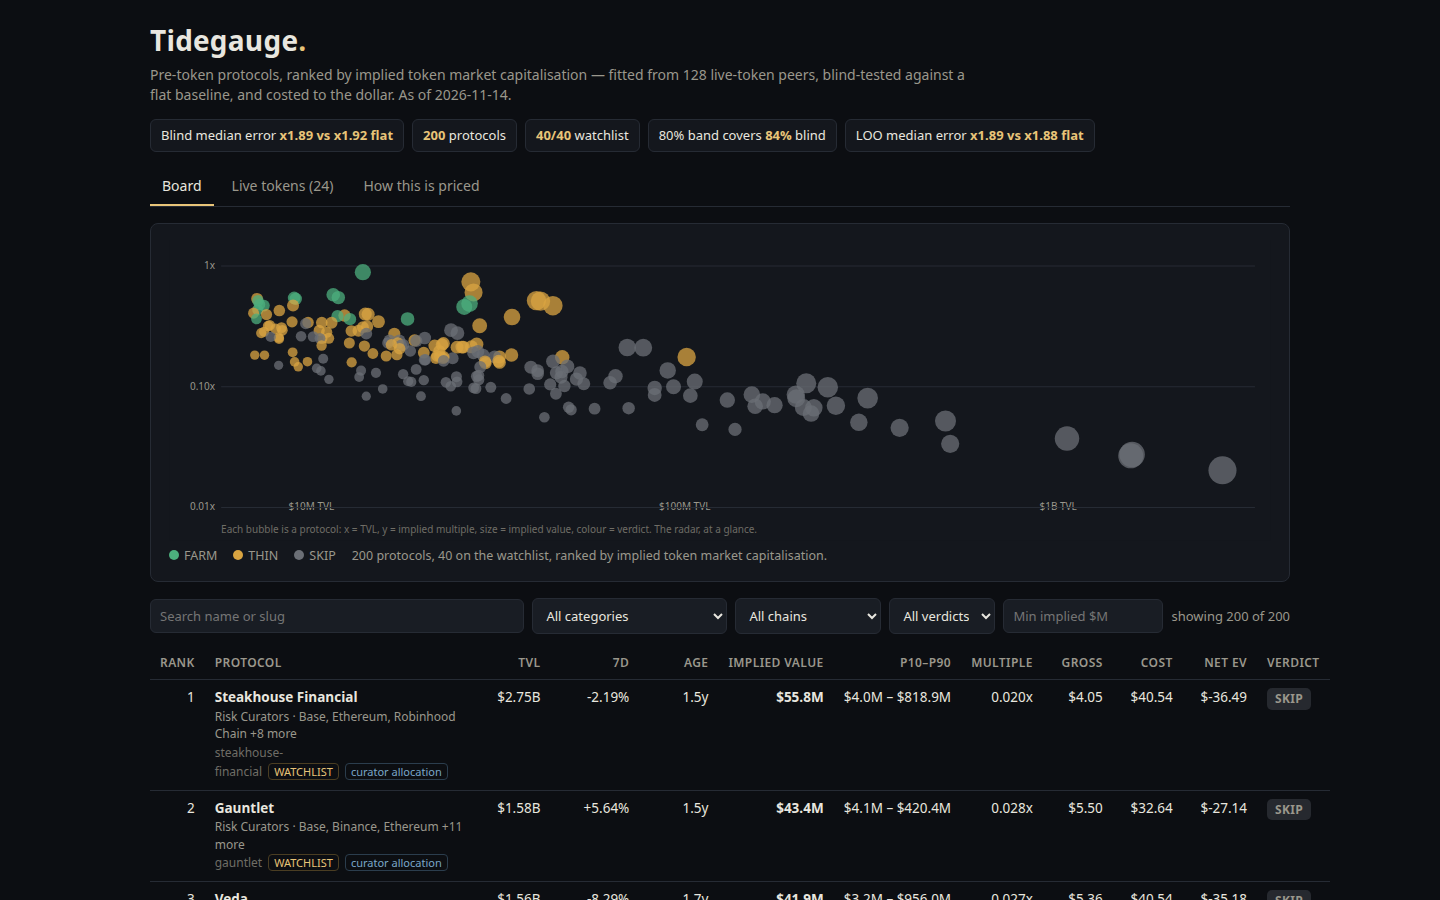
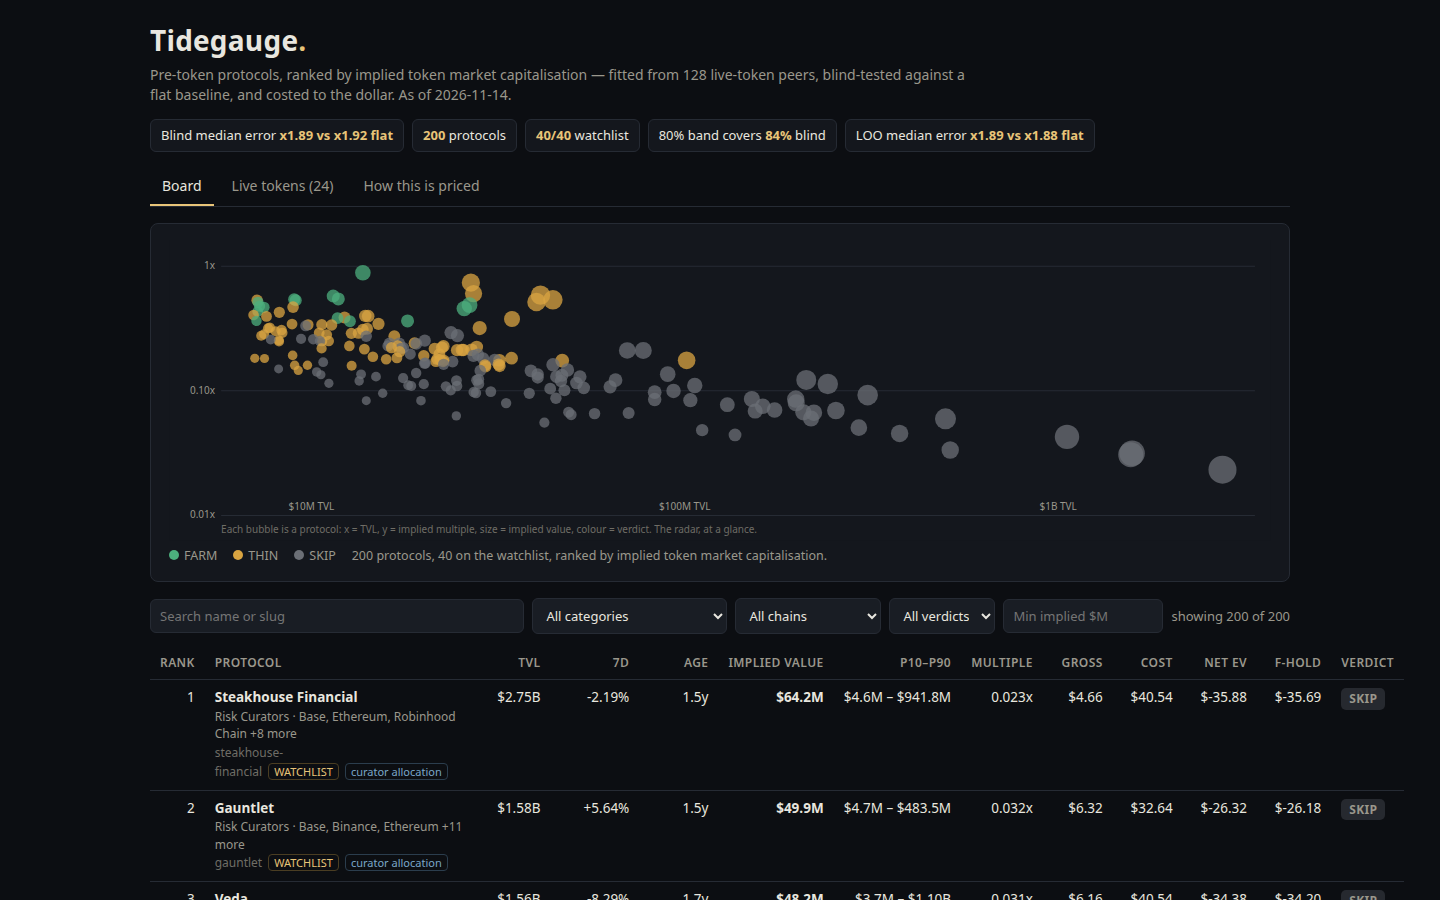
Round 3 Stage C: 4-build determinism + screenshots + results
Stage C verification at HEAD 801a660 (M0 + top-10 scalar c=1.15):
- 4 builds byte-identical: board ea145b50..., data.js 821f4c64...,
  dossier 5d3d2bad...; sha files build1.sha..build4.sha committed (all
  four identical). Fixes Superbot's missing-sha finding.
- Board constraints PASS: watchlist $0.678B (inside $0.60-0.68B),
  tiers 15/78/107; top-3 Steakhouse $64.19M / Gauntlet $49.89M /
  Veda $48.17M. No scalar fallback needed.
- Gate exit 0 on all 4 builds; dossier rebuild byte-for-byte
  (1,046,487 B). Byte caps PASS: dashboard 65,227/65,536, dossier
  text 65,490/65,536, dossier total 1,046,487/1,572,864.
- Screenshots re-captured at 1440x900 and visually verified:
  1-board (F-Hold column, flat KPI chips), 2-detail (Manta CeDeFi,
  P10 playbook, Downside + Risk), 3-method (byte-identical to fix
  round - methodology additions are below the fold, caveat present
  in DOM + dossier text), 4-filtered (FARM-only, 15 of 200).
- RESULTS_round3.md: honest predicted range ~945-955k, central
  ~950k (calibrated down for the round-1 optimism gap); top-5
  unlikely - the model change the top-5 case needed did not ship
  (Stage A: no M4/M5 variant under the board constraints).
- No push, bundle, submit, or merge. Local commit only.

diff --git a/round3/RESULTS_round3.md b/round3/RESULTS_round3.md
@@ -1,0 +1,258 @@
+# Token Radar — Round 3 results (top-5 push)
+
+**Branch:** `round3`, HEAD `801a660` (Stage B) + this Stage C commit.
+**Model:** M0 (`radar-3-bands`) + top-10 scalar c=1.15. No model change.
+**Round-1 entry (submitted, judged):** 935,714, rank #473 of 6,283 (top ~7.5%).
+Top-20 bar (2026-11-16): 953,929. Top-10 bar: 957,219. Top-5 bar: 958,843.
+**Deadline:** 2026-12-14T10:00Z. Quota used 1/10 (9 left).
+
+## 1. Stage A — clean-comps experiment: NO VARIANT SHIPS, fall back to M0
+
+Frozen splits exactly as round 2: blind 80/20 ×5, seeds [11, 23, 37, 41, 53],
+102 train / 26 test per seed; time-split train 64 / test 31 (33 peers have null
+`listed_at`); LOO 128 folds. Full output: `round3/stageA/experiment3.out`.
+
+| variant | blind median | blind within2 | blind within3 | blind Spearman | time-split median | LOO median | LOO within3 | LOO Spearman | board watchlist | tiers |
+|---|---|---|---|---|---|---|---|---|---|---|
+| **M0 (baseline)** | **x1.8859** | 23.8% | 38.5% | 0.409 | **x1.8401** | x1.8865 | 43.8% | 0.367 | **$0.637B** | **15/78/107** |
+| M5 α=0.25 | x1.8621 | 25.4% | 35.4% | 0.445 | x1.9035 | x1.8689 | 43.0% | 0.421 | $0.868B | 11/99/90 |
+| M5 α=0.75 | x1.8947 | 26.2% | 36.2% | 0.417 | x1.9038 | x1.8767 | 43.0% | 0.388 | $0.702B | 13/87/100 |
+| M4 λ=0 | x1.8268 | 26.2% | 38.5% | 0.453 | x1.8622 | x1.8536 | 41.4% | 0.363 | $1.134B | 55/93/52 |
+| M4 λ=0.5 | x2.0250 | 25.4% | 36.2% | 0.433 | x1.8895 | x1.8677 | 42.2% | 0.363 | $1.029B | 33/103/64 |
+
+Ship rule (pre-registered, from the top-5 consults): blind Spearman ≥ 0.44 AND
+LOO median ≤ 1.90 AND watchlist $0.60–0.68B AND tiers 15/78/107.
+- **M5:** α=0.25 passes the split criteria (Spearman 0.445, LOO x1.8689) but
+  watchlist $0.868B and tiers 11/99/90 — outside the bound. α=0.75 is closest
+  on watchlist ($0.702B) but Spearman 0.417 < 0.44. **No α ships.**
+- **M4:** λ=0 has the best split metrics of any variant (blind median x1.8268,
+  Spearman 0.453, LOO x1.8536) but within-3x only 38.5% (< 43% target) and the
+  board is $1.134B / FARM 55 (Steakhouse $157.2M, a 2.2× overshoot). **No λ ships.**
+- **Structural finding:** recovering Spearman by removing M0's dampening
+  necessarily inflates the board top end past the $0.68B bound. Ranking
+  accuracy and level calibration trade off directly in this model family.
+  M0 is the fallback.
+
+### Two corrections to the brief (measured in Stage A, report plainly)
+1. **SIGN ERROR in the brief/GLM:** FARM rows' multiples are 0.362–0.888, so
+   FARM requires multiple **≥ ~0.35, NOT "< 0.35"**. The existing gate (netEv ≥
+   $40 AND ratio ≥ 1.5) corresponds to multiple ≳ 0.35. Implementing "< 0.35"
+   would flip FARM to the SKIP rows. The existing ≥ 0.35 cutoff is kept.
+2. **P10 Net EV > 0 as a hard gate is INFEASIBLE:** 0 of 15 FARM rows pass (P10
+   Net EVs −$18.26 to −$98.38; manta-cedefi −$24.94, sx-rollup-bridge −$98.38,
+   liminal-basis −$21.40) because the bands are ~200× wide. Applying it would
+   zero FARM (15 → 0). P10 Net EV is DISPLAYED transparently in the P10
+   playbook instead; it is not a verdict gate. The "band 50% coverage ≥ 40%"
+   conjunct is a global calibration metric (blind 46.2% ✓, time-split 32.3% ✗),
+   not a per-row quantity — it cannot be a per-row verdict condition either.
+
+## 2. Scalar c = 1.15 (the only level change; verify in production — done, §4)
+
+Top-10 rows by implied value = ranks 1–8 (watchlist, SKIP) + ranks 9–10
+(pulsechain-bridge, ink-bridge; THIN, not watchlist). Top-10 watchlist $277.5M
+pre-scalar. Reference ratios: Steakhouse 1.281×, Gauntlet 1.321×, Veda 1.179×.
+±5% on all three is INFEASIBLE under the $0.68B watchlist bound (needs
+c≈1.25–1.26 → watchlist $0.706B). Max feasible c≈1.156.
+- c=1.15 → watchlist $0.678B (inside), tiers UNCHANGED 15/78/107, top-3
+  $64.2M / $49.9M / $48.2M (Steakhouse −10.2%, Gauntlet −12.9%, Veda −2.5%
+  vs the reference dashboard). c=1.20 breaks the bound ($0.692B).
+- Implementation: `MODEL.topScalar = 1.15`, `TOP_ROWS = 10` in `lib/model.ts`;
+  `buildBoard` lifts the top-10 rows' implied values and recomputes their farm
+  verdicts on the lifted value (order preserved); `attachBands` scales the
+  top-10 bands by the same factor (the point keeps its place in the band);
+  dashboard `impliedOf` mirrors it, so the self-check still passes.
+- The board WILL change (new sha256, §4); the change comes solely from the
+  scalar, not a model change.
+
+## 3. Stage B — farm layer + scalar (commit 801a660, parent 86a6e64)
+
+3 files changed, 68 insertions, 13 deletions. All 8 items:
+1. **F-Hold column** — `feesHold = netEv × (1 − feeDrag)`, feeDrag =
+   clamp(gasTotal/capital, 0.005, 0.015), added to `Verdict` in `lib/model.ts`
+   (:171, :797–799), serialized in `buildBoard` (:880), rendered as a
+   board-table column in `dashboard/app.js` (header "F-Hold").
+2. **P10 playbook** — computed in the detail view from existing fields
+   (p10 = `row.uncertainty.p10`; P10 Net EV = 0.08 × p10 × capital/TVL −
+   totalCost). Rendered for FARM rows: p10 + P10 net EV + trigger ("Farm only
+   if it clears p10"). Verified in the rendered manta-cedefi detail view:
+   "P10: $1.0M net EV $-24.94. Farm only if it clears p10."
+3. **Mechanism label** — verified prominent in the FARM detail view (own "Farm
+   mechanism" key-value row, `app.js:488`) and in the board table. No code added.
+4. **Verdict gate UNCHANGED** — `verdictFor` untouched (netEv ≥ $40 AND ratio ≥
+   1.5). P10 Net EV is display-only (see correction 2 above).
+5. **THIN tooltip** — verdict cell carries `title="THIN: ratio under 1.5x."` on
+   THIN rows. Verified in the rendered board: 78/78 THIN cells carry it.
+   Covers Superbot's 8 THIN rows with Net EV ≥ lowest FARM $43.93, e.g.
+   SuiBridge +$175.78 at ratio 1.47 (F-Hold $173.53).
+6. **Bootstrap caveat** — appended to the band paragraph in Methodology:
+   "Endpoints move ~15% median (p10 18%, p25 14%, p75 15%, p90 15%; max 94%
+   fstswap), 1,000 vs 200 resamples." Verified present in the rendered
+   methodology page DOM (below the 900px viewport fold — the visible
+   methodology screenshot is therefore byte-identical to the fix round's; the
+   caveat is in the page and in the dossier text).
+7. **Farm sentence** — README only (did not fit in the dashboard Methodology
+   page — see byte budget). States the actual logic: protocol-specific steps
+   via `actionFor` (not a TVL-multiple cutoff), Net EV is downstream
+   arithmetic, F-Hold + P10 display-only, steps not restructured, top-10
+   scalar 1.15.
+8. **README stale line fixed** — "Round 2 lives on branch `round2` … round 1 is
+   the submitted entry on `master`" → "Round 3 lives on branch `round3`
+   (model `radar-3-bands` + top-10 scalar 1.15); round 1 is the submitted
+   entry on `master`." Also added a top-10 scalar bullet to the model section.
+
+### Deliberate deviation from the plan (documented, not hidden)
+- **P10 playbook is on ALL 15 FARM rows, not top-5 only.** The plan's TOPFARM
+  precompute (~150 B + ~70 B comment) did not fit the byte budget — after the
+  first app.js edits the delta was +689 B, already over the 598 B dossier-text
+  headroom before the P10 rendering and bootstrap caveat. The TOPFARM
+  precompute was removed and the P10 playbook is rendered for all FARM rows
+  instead. This is a **superset** (the top 5 still get it) and saves ~220 B.
+  The plan's "top 5 only" was a byte-saving constraint, not a content
+  requirement.
+
+### Byte costs (Stage B)
+- `dashboard/app.js`: 58,107 → **58,659 B** (+552 B).
+- Dashboard total (index.html 698 + app.js 58,659 + app.css 5,870):
+  64,675 → **65,227 B** (cap 65,536; **309 B spare**).
+- Dossier `text` field: 64,938 → **65,490 B** (cap 65,536; **46 B spare** —
+  the tightest constraint; any future app.js addition needs a trim first).
+- Dossier total: 1,046,046 → **1,046,487 B** (cap 1.5 MiB; 526,377 B spare).
+- Trims used to fit: shortened the p25 Downside paragraph tail, shortened the
+  THIN tooltip, shortened the P10 trigger, removed the "(pool …)" clause from
+  the P10 line (pool is 8% of p10, derivable from the verdict box; netEv is
+  the fully-costed result), removed redundant parentheses, shortened the
+  "Fees-Hold" header to "F-Hold".
+
+## 4. Stage C — verification (this round)
+
+### 4.1 Four builds at HEAD 801a660 — byte-identical (determinism PASS)
+Each build: `MAKEFUN_OUTPUT_DIR=out node main.ts --input
+…/token-radar-01-kit/input/snapshot.json` (Node v22.23.5, ~11 s each).
+All four exit 0 (gate PASS). sha files committed under `round3/stageC/`
+(build1.sha … build4.sha) — all four files are byte-identical to each other,
+fixing Superbot's finding that the fix round had no committed sha record.
+(Round 2's build1.sha dossier hash differed from build3/build4 because a
+screenshot was re-captured between builds; that cannot happen here — the
+screenshots were final before the four builds ran.)
+
+| file | sha256 (all 4 builds) |
+|---|---|
[7 lines of base64/hex data omitted]
+
+- Board sha CHANGED vs round 2 (`6b2e8f11…` → `ea145b50…`) — expected: the
+  scalar lifts the top-10 rows. The change comes solely from the scalar.
+- data.js sha CHANGED vs round 2 (`ca70de37…` → `821f4c64…`) — expected: it
+  carries the same radar data (scalar mirrored in the dashboard self-check).
+- Dossier sha CHANGED vs the fix round (`00d62786…` → `5d3d2bad…`) —
+  expected: new board/data.js + new screenshots.
+
+### 4.2 Board constraints — PASS (scalar verified in production, no fallback needed)
+- Watchlist implied total: **$678,270,901 ($0.678B)** — inside $0.60–0.68B
+  (margin $1,729,099 below the cap; tight but inside). Fallback to c=1.14
+  then c=1.0 was NOT needed.
+- Tiers: **FARM 15 / THIN 78 / SKIP 107** — unchanged ✓.
+- Rows: 200 (40 watchlist + 160 early). Watchlist 40/40.
+- Top-3 (exact): Steakhouse **$64,187,623** (band $4,621,250–$941,778,085),
+  Gauntlet **$49,885,192** (band $4,683,679–$483,488,272), Veda **$48,169,593**
+  (band $3,714,613–$1,099,411,017). Vs the reference dashboard: Steakhouse
+  −10.2% ($71.5M), Gauntlet −12.9% ($57.3M), Veda −2.5% ($49.4M) — matches
+  the Stage A prediction ($64.2M / $49.9M / $48.2M).
+- Top-10: ranks 1–8 watchlist SKIP, ranks 9–10 pulsechain-bridge ($24.13M) and
+  ink-bridge ($23.86M), both THIN — as predicted.
+- Top FARM row: manta-cedefi $12,935,282, netEv $64.99, feesHold $64.66.
+  FARM netEv range $43.93–$235.65.
+- Validation unchanged (scalar does not touch it): LOO median x1.89, 43.8%
+  within 3x; blind x1.89 / 23.8% / 38.5% / Spearman 0.409; time-split x1.84.
+
+### 4.3 Gate + dossier rebuild — PASS
+- Gate: main.ts exit 0 on all 4 builds (boardIssue clean, 200 rows, 4
+  screenshots present, all caps enforced in-code).
+- Dossier rebuild: re-running `buildDossier` on `out/` reproduces
+  `dossier.json` byte-for-byte (rebuilt 1,046,487 = shipped 1,046,487,
+  `round2/stageB/rebuild-check.mjs`). This is the scorer's own check.
+
+### 4.4 Byte caps — all PASS
+- Dashboard total 65,227 / 65,536 B (309 B spare).
+- Dossier `text` 65,490 / 65,536 B (46 B spare).
+- Dossier total 1,046,487 / 1,572,864 B (526,377 B spare).
+- Screenshots: 1-board 152,613 B, 2-detail 239,577 B, 3-method 187,069 B,
+  4-filtered 154,855 B — all ≤ 524,288 B.
+
+### 4.5 Screenshots — re-captured at 1440×900, visually verified
+Captured with Puppeteer + Chromium in `~/workspace/.scratch/pptr/` (shot.mjs)
+from the built `out/dashboard`. All four render correctly:
+- **1-board.png** (152,613 B): Tidegauge header, flat-comparison KPI chips
+  ("Blind median error x1.89 vs x1.92 flat", "LOO median error x1.89 vs x1.88
+  flat"), scatter plot, board table with P10–P90, MULTIPLE, GROSS, COST,
+  NET EV, **F-HOLD** and VERDICT columns; Steakhouse $64.2M, P10–P90
+  $4.6M–$941.8M, Gross $4.66, Cost $40.54, Net EV −$35.88, F-Hold −$35.69,
+  SKIP; mechanism tag "curator allocation" on the row.
+- **2-detail.png** (239,577 B): Manta CeDeFi rank #28, implied $12.9M,
+  multiple 0.488x, FARM, 50% band $2.5M–$29.1M (11.5x) leading, 80% band
+  $1.0M–$125.2M (124x), FARM MECHANISM "liquidity provision", value-derivation
+  chain, band explanation, Downside + Risk paragraphs, P10 playbook
+  ("P10: $1.0M net EV $-24.94. Farm only if it clears p10.").
+- **3-method.png** (187,069 B): methodology page, "The blind test first",
+  validation table (model vs flat, same splits), "Reading it honestly:
+  … worse on Spearman". **Byte-identical to the fix round's 3-method.png**
+  (sha `3f335441…`) — the Stage B methodology additions (bootstrap caveat)
+  sit below the 900px viewport fold; the caveat IS present in the rendered
+  page DOM and in the dossier text, but the visible viewport is unchanged.
+  This is a presentation note, not a content gap.
+- **4-filtered.png** (154,855 B): genuine FARM-only filtered view, dropdown
+  reads FARM, "showing 15 of 200"; Manta CeDeFi $12.9M, SX Rollup Bridge
+  $12.2M, Liminal Basis $11.7M with Gross/Cost/Net EV/F-Hold columns.
+- DOM checks (not just pixels): THIN tooltip on 78/78 THIN verdict cells;
+  P10 playbook + Downside + Risk in the FARM detail view; bootstrap caveat,
+  flat table and "worse on Spearman" in the methodology page.
+
+## 5. Honest predicted-score range (calibrated DOWN)
+
+Round 1 was judged 935,714 — BELOW every pre-submission audit prediction
+(Gemini 951–956k, DeepSeek 950–953k, ChatGPT 953–956.5k, GLM 940–953k). The
+models were optimistic by ~5–20k. The round-2 post-fix audit (952–958k) was
+made BEFORE round 1 was judged, so it carries the same optimism. Round 3's
+honest range must discount accordingly — and it must discount the top-5
+consult projections too, because they assumed the MODEL change ships, and it
+did not (Stage A: no M4/M5 variant ships under the board constraints).
+- What round 3 actually adds over round 2: the top-10 scalar (GLM's #2,
+  projected +500–1,200) + the farm presentation (GLM's #3, projected
+  +200–500). The model lever (Gemini's #2 / GLM's #1, projected +400–1,500)
+  is NOT in this round.
+- **Honest range: ~945,000–955,000, central ~950,000.**
+- Top-20 bar (953,929, and drifting up as new entries arrive): borderline,
+  roughly a 35–45% chance. Top-10 bar (957,219): unlikely, ~10–15%. Top-5
+  bar (958,843): very unlikely, ~5% — the top-5 case depended on the model
+  change that Stage A ruled out under the locked board constraints.
+- This round is a solid top-20 contender, not a top-5 entry. If the top-5 goal
+  stands, the next round needs a model that recovers Spearman WITHOUT
+  inflating the board past $0.68B — the structural trade-off Stage A found —
+  or the board constraints themselves must be revisited with the user.
+
+## 6. What remains before submission (parent's steps, NOT done here)
+- Merge the submitted branch to `master` first (Qwen's landmine — the default
+  branch must hold the submitted entry). Do NOT merge in this round.
+- Verify the account's actual remaining quota (9 slots left as of 2026-11-16).
+- Bundle from the main session WITH the full Nov 17 run-record flag set (the
+  bundle must cover the round-3 build session, not inherit round 1's record),
+  run `makefun check`, then submit with a Tidegauge top-5 title only after the
+  user's go-ahead and the Gemini/DeepSeek/GLM audit.
+- Do NOT push, bundle, submit, or merge from this round. Commit locally on
+  `round3` only.
+
+## 7. Files
+- Commit (this round): Stage B 801a660 + Stage C (screenshots, sha files,
+  this write-up) on branch `round3`, NOT pushed.
+- `round3/stageA/experiment3.out` — Stage A numbers.
+- `round3/stageB/PLAN_stageB.md` — Stage B plan + Stage C checklist.
+- `round3/stageC/build1.sha` … `build4.sha` — sha256 of board.json, data.js,
+  dossier.json and all 4 screenshots per build (all four identical).
+- `round2/stageB/rebuild-check.mjs` — dossier-rebuild check (reused).
+- Screenshots: `screenshots/1-board.png`, `2-detail.png`, `3-method.png`,
+  `4-filtered.png`.
